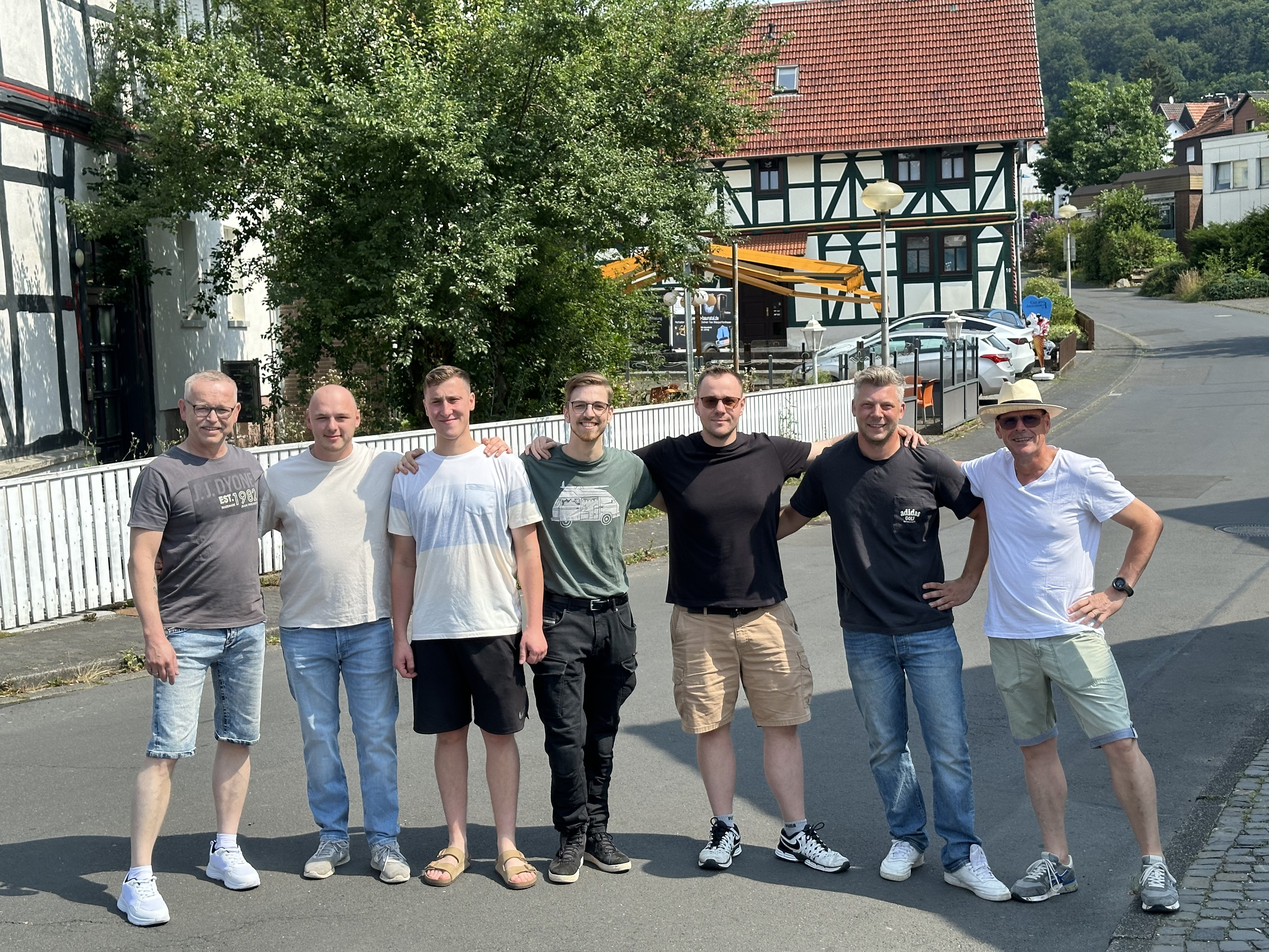
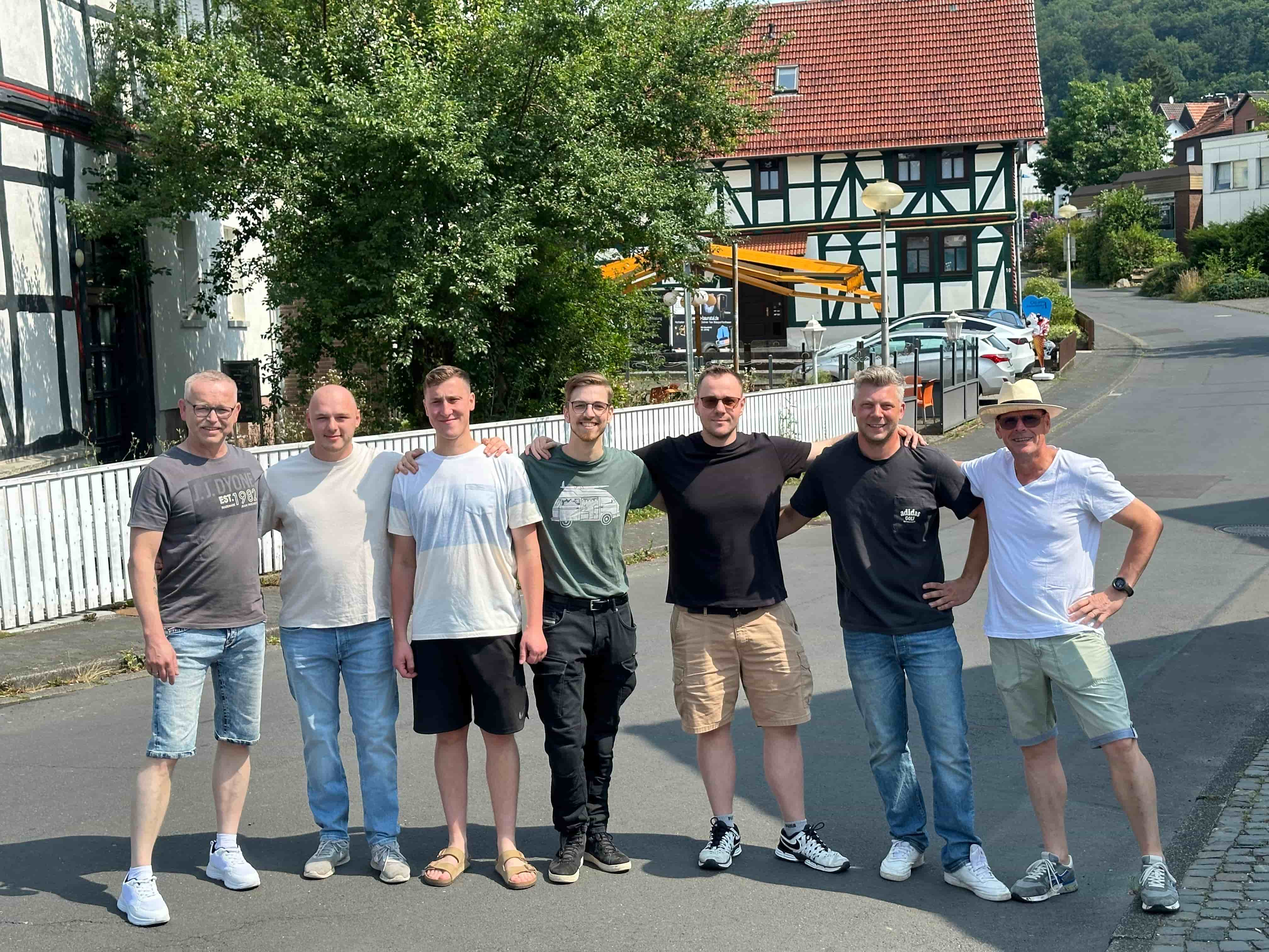
Bilder konvertiert

diff --git a/css/style.css b/css/style.css
@@ -44,7 +44,7 @@ body {
 /*header section*/
 .hero_area {
   height: 100vh;
-  background-image: url("../images/a .png");
+  background-image: url("../images/a .jpg");
   background-size: cover;
 }
 
@@ -1044,7 +1044,7 @@ main {
     justify-content: center;
     align-items: center;
     height: 100vh;
-     background-image: url('../images/back_gelb.png');
+     background-image: url('../images/back_gelb.jpg');
     background-size: cover;  /* Bild vollständig einpassen */
     background-position: center; /* Bild zentrieren */
     background-repeat: no-repeat; /* Keine Wiederholung */
